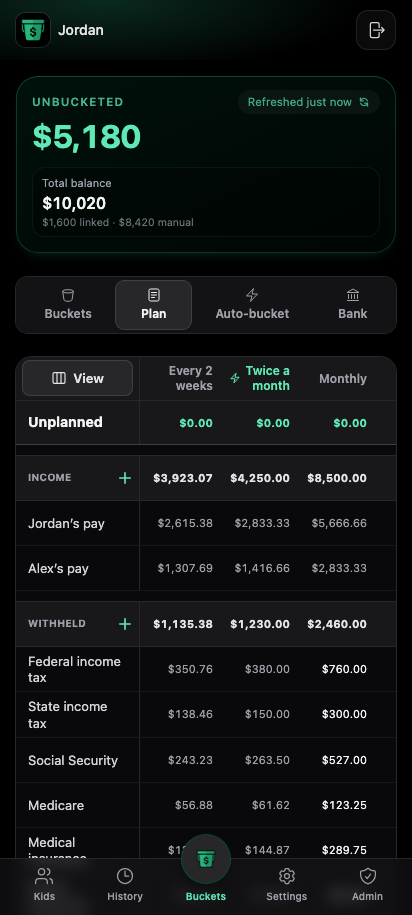
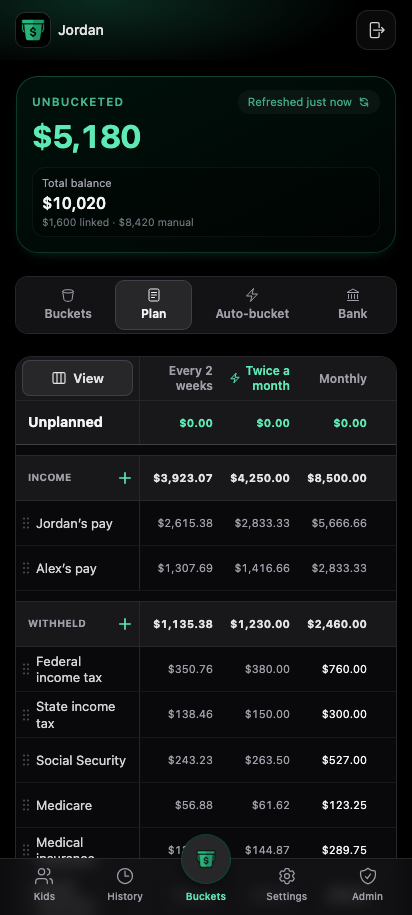
v1.21.13: Plan row grips; a closed sheet never blocks taps (#434)
Plan rows get the same dot grip as bucket rows (admins with editing
unlocked, sections with 2+ lines): pressing it drags at once; long-press
on the name still works. Locked plans and members show no grips.

Sheet: a closed sheet unmounted only on the panel's transitionend. When
none fires (no transition, closed before it opened, or an interrupted
one) the invisible backdrop stayed over the page and swallowed every tap.
A timer now backs it up. This is what failed main CI on the Plan link
test (the closed Link confirm blocked the next click).

diff --git a/src/features/plan/PlanTable.tsx b/src/features/plan/PlanTable.tsx
@@ -2,6 +2,7 @@ import { useEffect, useLayoutEffect, useRef, useState, type CSSProperties, type 
 import { createPortal } from 'react-dom'
 import { blockShiftY } from '@/features/buckets/rowLongPressReorder'
 import { useRowLongPressReorder } from '@/features/buckets/useRowLongPressReorder'
+import { GripDots } from '@/components/ui/DragHandle'
 import { prefersReducedMotion } from '@/lib/motion'
 import {
   PLAN_COLUMN_LABELS,
@@ -371,14 +372,19 @@ function TotalRow({
 interface RowDrag {
   /** Long-press handlers for the name button; absent when the line can't move. */
   handlers?: Record<string, unknown>
+  /** The grip column: 'none' when editing is off, 'blank' keeps names aligned. */
+  grip: 'none' | 'blank' | 'shown'
+  /** Press-and-drag-at-once handlers for the grip; absent while a cell is open. */
+  gripHandlers?: Record<string, unknown>
   pending: boolean
   dragging: boolean
   style?: CSSProperties
 }
 
 /**
- * One section's lines. Admins reorder them by long-pressing a line's name
- * (the same gesture and hook as the Buckets list); a tap still opens the line.
+ * One section's lines. Admins reorder them by pressing a line's grip, or by
+ * long-pressing its name (the same gestures and hook as the Buckets list); a
+ * tap on the name still opens the line.
  */
 function SectionLines({
   section,
@@ -445,6 +451,8 @@ function SectionLines({
           const shift = shifting ? blockShiftY(index, activeIndex, manualDragOverIndex, measured.heights) : 0
           const drag: RowDrag = {
             handlers: dragEnabled ? getRowHandlers(line.id) : undefined,
+            grip: !table.canEdit ? 'none' : rows.length >= 2 ? 'shown' : 'blank',
+            gripHandlers: dragEnabled ? getRowHandlers(line.id, true) : undefined,
             pending: pendingBucketId === line.id,
             dragging: manualDragBucketId === line.id,
             style: shifting
@@ -468,7 +476,7 @@ function SectionLines({
         ? createPortal(
             <div
               aria-hidden="true"
-              className="pointer-events-none fixed z-[999] flex items-center rounded-lg bg-zinc-900 px-3 text-[13px] leading-tight text-zinc-200 shadow-lg ring-2 ring-emerald-400"
+              className="pointer-events-none fixed z-[999] flex items-center rounded-lg bg-zinc-900 pr-3 text-[13px] leading-tight text-zinc-200 shadow-lg ring-2 ring-emerald-400"
               style={{
                 left: measured.box.left,
                 width: measured.box.width,
@@ -476,6 +484,10 @@ function SectionLines({
                 top: manualDragOverlay.top,
               }}
             >
+              {/* Same grip column and name inset as the row, so it lifts in place. */}
+              <span className="flex w-5 shrink-0 justify-center text-zinc-500">
+                <GripDots className="h-3.5 w-2" />
+              </span>
               <LineLabel name={table.lineName(dragged)} hasNote={table.lineHasNote(dragged)} paidBy={dragged.paidBy} />
             </div>,
             document.body,
@@ -531,6 +543,18 @@ function LineRow({
         <span aria-hidden="true" className="plan-row-flash pointer-events-none absolute inset-0 z-20 bg-emerald-500/20" />
       ) : null}
       <div role="rowheader" className={`${nameCell} flex bg-zinc-950`}>
+        {drag.grip === 'none' ? null : (
+          // Pointer-only, like long-press: keyboard users move a line from its
+          // sheet (Move up / Move down).
+          <div
+            aria-hidden="true"
+            data-reorder-grip=""
+            {...drag.gripHandlers}
+            className={`flex w-5 shrink-0 touch-none select-none items-center justify-center text-zinc-600 [-webkit-touch-callout:none] ${drag.gripHandlers ? 'cursor-grab active:cursor-grabbing' : ''}`}
+          >
+            {drag.grip === 'shown' ? <GripDots className="h-3.5 w-2" /> : null}
+          </div>
+        )}
         {lineHasDetails(line) ? (
           <button
             type="button"
@@ -547,7 +571,7 @@ function LineRow({
             }}
             aria-label={planLineDetailsAriaLabel(name)}
             className={
-              'flex w-full min-w-0 select-none flex-col items-start justify-center gap-0.5 px-3 py-1.5 text-left text-[13px] leading-tight text-zinc-300 hover:bg-zinc-900 focus-visible:outline focus-visible:outline-2 focus-visible:-outline-offset-2 focus-visible:outline-emerald-400 [-webkit-touch-callout:none] ' +
+              `flex w-full min-w-0 select-none flex-col items-start justify-center gap-0.5 ${drag.grip === 'none' ? 'px-3' : 'pr-3'} py-1.5 text-left text-[13px] leading-tight text-zinc-300 hover:bg-zinc-900 focus-visible:outline focus-visible:outline-2 focus-visible:-outline-offset-2 focus-visible:outline-emerald-400 [-webkit-touch-callout:none] ` +
               (drag.pending ? 'bg-zinc-800/70 ring-2 ring-inset ring-emerald-400/45' : '')
             }
           >
@@ -556,7 +580,7 @@ function LineRow({
         ) : (
           <span
             onClick={locked ? onLockedTap : undefined}
-            className="flex w-full min-w-0 flex-col items-start justify-center gap-0.5 px-3 py-1.5 text-[13px] leading-tight text-zinc-300"
+            className={`flex w-full min-w-0 flex-col items-start justify-center gap-0.5 ${drag.grip === 'none' ? 'px-3' : 'pr-3'} py-1.5 text-[13px] leading-tight text-zinc-300`}
           >
             <LineLabel name={name} hasNote={false} paidBy={line.paidBy} />
           </span>

diff --git a/tests/e2e/plan.spec.ts b/tests/e2e/plan.spec.ts
@@ -178,7 +178,7 @@ test('linking a rule to a plan with only income keeps the rule: its buckets are 
   ])
 })
 
-test('an admin reorders lines: long-press drag, and Move up from the line sheet', async ({ page }) => {
+test('an admin reorders lines: long-press drag, grip drag, and Move up from the line sheet', async ({ page }) => {
   const family = await createAdminFamily('e2e-plan-reorder')
   await signIn(page, family.adminEmail, family.adminPassword)
   const admin = await userClient(family.adminEmail, family.adminPassword)
@@ -227,7 +227,22 @@ test('an admin reorders lines: long-press drag, and Move up from the line sheet'
   await sheet.getByRole('button', { name: 'Close' }).click()
   await page.getByRole('button', { name: 'Mortgage, details' }).focus()
   await page.keyboard.press('Enter')
-  await expect(page.getByRole('dialog', { name: 'Edit line' })).toBeVisible()
+  const opened = page.getByRole('dialog', { name: 'Edit line' })
+  await expect(opened).toBeVisible()
+  await opened.getByRole('button', { name: 'Close' }).click()
+  await expect(page.getByRole('dialog')).toHaveCount(0)
+
+  // The grip drags at once, no hold. Only sections with 2+ lines have grips.
+  const grip = (name: string) => page.getByRole('row').filter({ hasText: name }).locator('[data-reorder-grip]')
+  await expect(grip('Salary').locator('svg')).toHaveCount(0)
+  const gripFrom = (await grip('Mortgage').boundingBox())!
+  const gripTo = (await page.getByRole('button', { name: 'Electric, details' }).boundingBox())!
+  await page.mouse.move(gripFrom.x + gripFrom.width / 2, gripFrom.y + gripFrom.height / 2)
+  await page.mouse.down()
+  await page.mouse.move(gripFrom.x + gripFrom.width / 2, gripTo.y + 4, { steps: 12 })
+  await page.mouse.up()
+  await expect.poll(billOrder).toEqual(['Mortgage', 'Electric', 'Phone'])
+  await expect(page.getByRole('dialog')).toHaveCount(0)
 })
 
 test('a note can be written while adding a line; a Buckets line’s note is its bucket’s', async ({ page }) => {
@@ -309,6 +324,7 @@ test('an admin can lock editing on this device, and unlock it', async ({ page })
   await expect(page.getByRole('button', { name: /^Add line to/ })).toHaveCount(0)
   await expect(page.getByRole('button', { name: /^Salary, Monthly/ })).toHaveCount(0)
   await expect(page.getByRole('row').filter({ hasText: 'Salary' })).toContainText('$10,000.00')
+  await expect(page.getByRole('table').locator('[data-reorder-grip]')).toHaveCount(0)
 
   // It stays locked after a reload (a per-device preference).
   await page.reload()

diff --git a/src/components/ui/ConfirmSheet.test.tsx b/src/components/ui/ConfirmSheet.test.tsx
@@ -2,6 +2,7 @@ import { act } from 'react'
 import { createRoot, type Root } from 'react-dom/client'
 import { afterEach, beforeEach, describe, expect, it, vi } from 'vitest'
 import { ConfirmSheet } from '@/components/ui/ConfirmSheet'
+import { SHEET_UNMOUNT_AFTER_CLOSE_MS } from '@/components/ui/Sheet'
 
 let root: Root
 let host: HTMLDivElement
@@ -71,5 +72,30 @@ describe('ConfirmSheet', () => {
       window.dispatchEvent(new KeyboardEvent('keydown', { key: 'Escape' }))
     })
     expect(onClose).not.toHaveBeenCalled()
+  })
+
+  it('leaves nothing over the page once closed, even when no transitionend fires', async () => {
+    vi.useFakeTimers()
+    try {
+      const sheet = (open: boolean) => (
+        <ConfirmSheet
+          open={open}
+          title="Link Payday?"
+          body="Its buckets and amounts will come from your plan."
+          confirmLabel="Link"
+          onConfirm={() => {}}
+          onClose={() => {}}
+        />
+      )
+      await act(async () => root.render(sheet(true)))
+      expect(document.body.querySelector('[role="dialog"]')).not.toBeNull()
+
+      // jsdom runs no CSS transitions, like reduced motion or an interrupted close.
+      await act(async () => root.render(sheet(false)))
+      await act(async () => vi.advanceTimersByTime(SHEET_UNMOUNT_AFTER_CLOSE_MS))
+      expect(document.body.querySelector('[role="dialog"]')).toBeNull()
+    } finally {
+      vi.useRealTimers()
+    }
   })
 })

diff --git a/src/components/ui/DragHandle.tsx b/src/components/ui/DragHandle.tsx
@@ -4,6 +4,20 @@ type Props = HTMLAttributes<HTMLButtonElement> & {
   label?: string
 }
 
+/** The 2×3 dots alone, for a grip that isn't a button (Plan rows). */
+export function GripDots({ className = 'h-4 w-2.5' }: { className?: string }) {
+  return (
+    <svg xmlns="http://www.w3.org/2000/svg" viewBox="0 0 10 16" fill="currentColor" aria-hidden="true" className={className}>
+      <circle cx="2.5" cy="2.5" r="1.25" />
+      <circle cx="7.5" cy="2.5" r="1.25" />
+      <circle cx="2.5" cy="8" r="1.25" />
+      <circle cx="7.5" cy="8" r="1.25" />
+      <circle cx="2.5" cy="13.5" r="1.25" />
+      <circle cx="7.5" cy="13.5" r="1.25" />
+    </svg>
+  )
+}
+
 /**
  * 2×3 dot grip — standard reorder affordance. Spread dnd-kit
  * attributes/listeners onto this button via ref + props.
@@ -24,20 +38,7 @@ const DragHandle = forwardRef<HTMLButtonElement, Props>(function DragHandle(
       }
       {...props}
     >
-      <svg
-        xmlns="http://www.w3.org/2000/svg"
-        viewBox="0 0 10 16"
-        fill="currentColor"
-        aria-hidden="true"
-        className="h-4 w-2.5"
-      >
-        <circle cx="2.5" cy="2.5" r="1.25" />
-        <circle cx="7.5" cy="2.5" r="1.25" />
-        <circle cx="2.5" cy="8" r="1.25" />
-        <circle cx="7.5" cy="8" r="1.25" />
-        <circle cx="2.5" cy="13.5" r="1.25" />
-        <circle cx="7.5" cy="13.5" r="1.25" />
-      </svg>
+      <GripDots />
     </button>
   )
 })

diff --git a/src/components/ui/Sheet.tsx b/src/components/ui/Sheet.tsx
@@ -16,6 +16,9 @@ type Props = {
   closeOnBackdropClick?: boolean
 }
 
+/** A little past the panel's 250ms close transition (src/index.css `.sheet-panel`). */
+export const SHEET_UNMOUNT_AFTER_CLOSE_MS = 350
+
 /** Open sheets, oldest first: Escape closes only the top one (a confirm over an editor). */
 const openSheets: object[] = []
 
@@ -47,6 +50,12 @@ export function Sheet({
       return () => cancelAnimationFrame(frame)
     }
     setShown(false)
+    // The panel's transitionend unmounts it as soon as the slide-out ends. This
+    // timer is the backstop: with no transition (reduced motion, or closed
+    // before it ever opened) or an interrupted one, transitionend never fires,
+    // and the invisible backdrop would stay over the page blocking every tap.
+    const timer = setTimeout(() => setPresent(false), SHEET_UNMOUNT_AFTER_CLOSE_MS)
+    return () => clearTimeout(timer)
   }, [open])
 
   useEffect(() => {

diff --git a/docs/PLAN.md b/docs/PLAN.md
@@ -187,10 +187,11 @@ Each total appears once, and there's no Allocated row (it's Gross − Unplanned)
 
 - **Fields:** section, amount + unit, sort order. New lines go to the end of
   their section.
-- **Reorder (admins):** long-press a line's name and drag it within its
-  section: the same gesture and hook as the Buckets list
-  (`useRowLongPressReorder`; the page auto-scrolls near its edges). A tap still
-  opens the line. The line sheet's **Move up** / **Move down** do the same from
+- **Reorder (admins):** press a line's grip (the dots left of its name) and
+  drag, or long-press the name and drag, within its section: the same gestures
+  and hook as the Buckets list (`useRowLongPressReorder`; the page auto-scrolls
+  near its edges). Grips show only while editing is unlocked, in sections with
+  two or more lines. A tap on the name still opens the line. The line sheet's **Move up** / **Move down** do the same from
   the keyboard or a screen reader. Both save through `reorder_plan_lines`; a
   linked rule's lines follow the new order.
 - **Names are the user's own**, income included, 1–40 characters.
